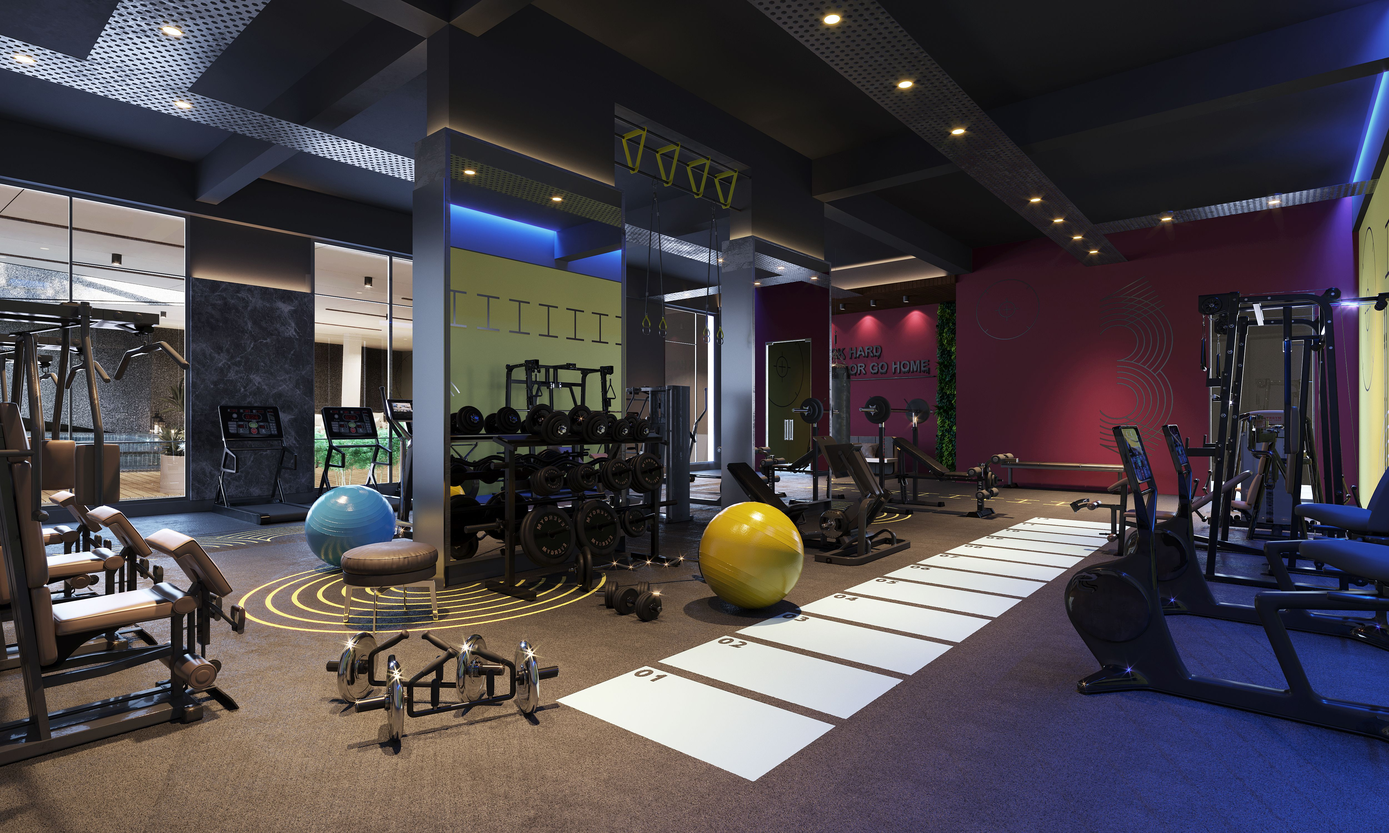
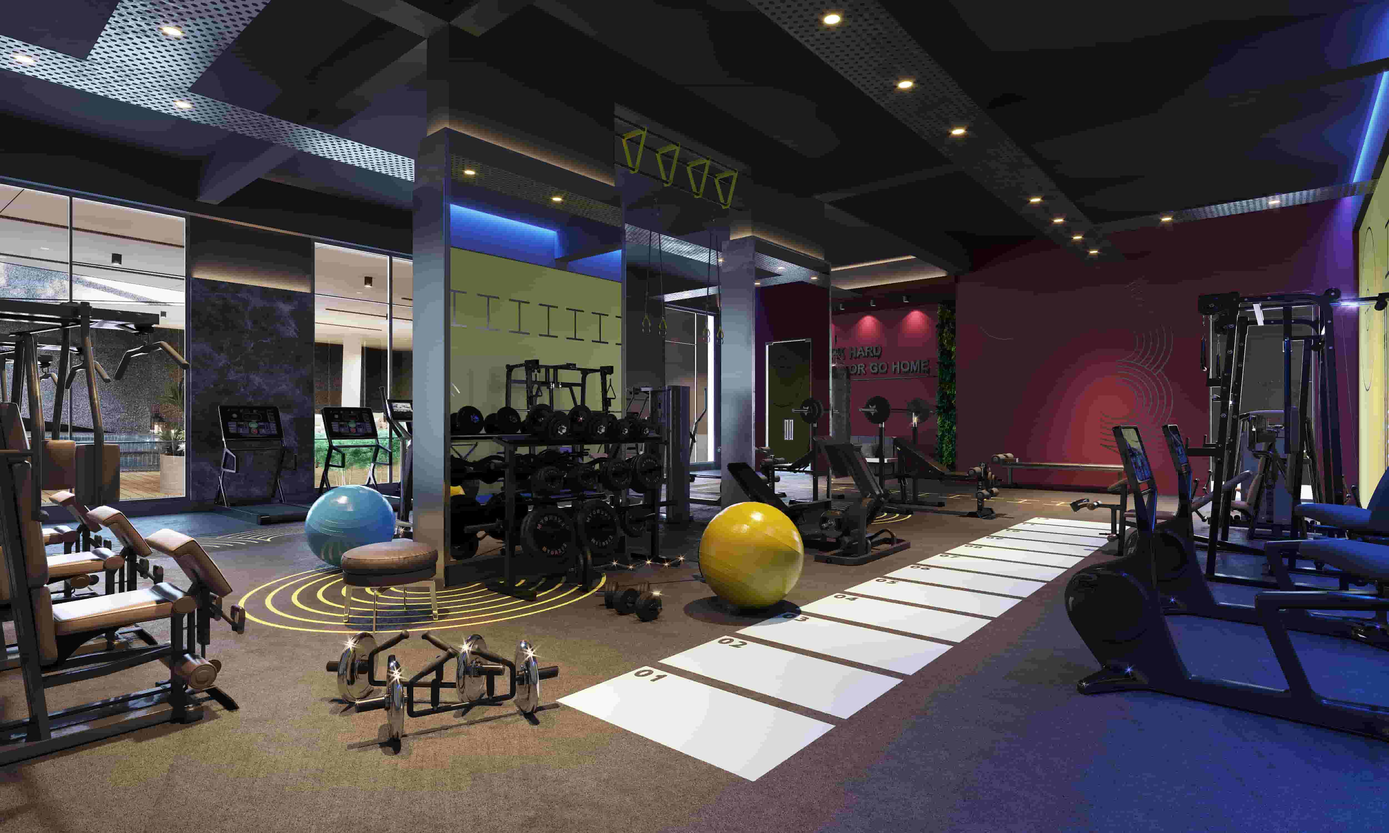
perf: compressed hero image, updated fetchpriority, and added robots.txt

diff --git a/index.html b/index.html
@@ -15,7 +15,7 @@
     rel="stylesheet" />
 
   <!-- 🔥 LCP FIX: Preload the main home page hero image -->
-  <link rel="preload" as="image" href="/src/assets/Home.jpg" />
+  <link rel="preload" as="image" href="/src/assets/Home.jpg" fetchpriority="high" />
 </head>
 
 <body>
